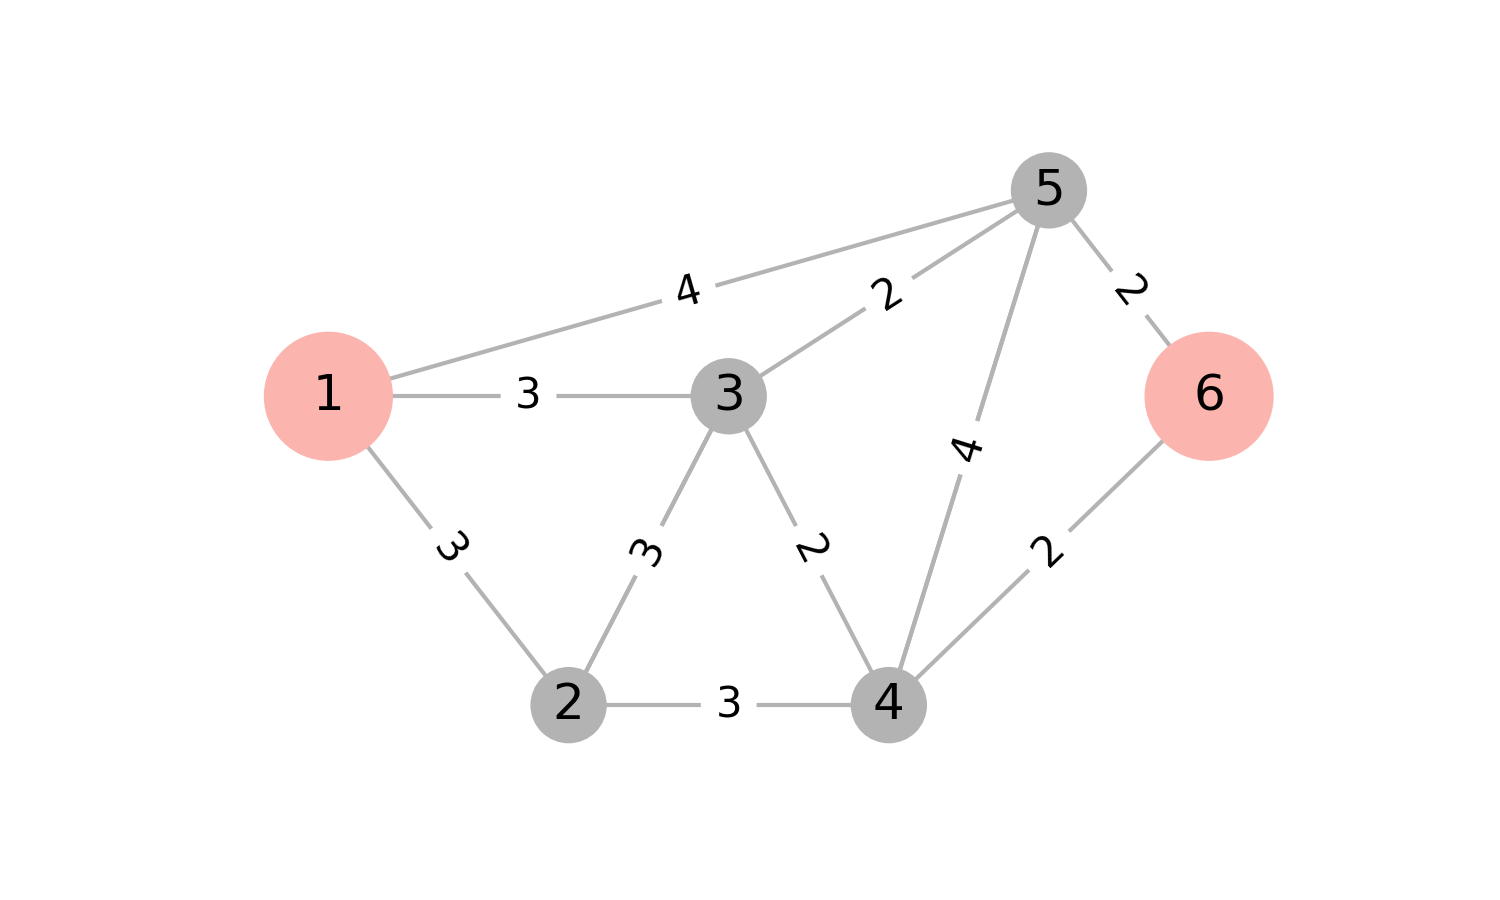
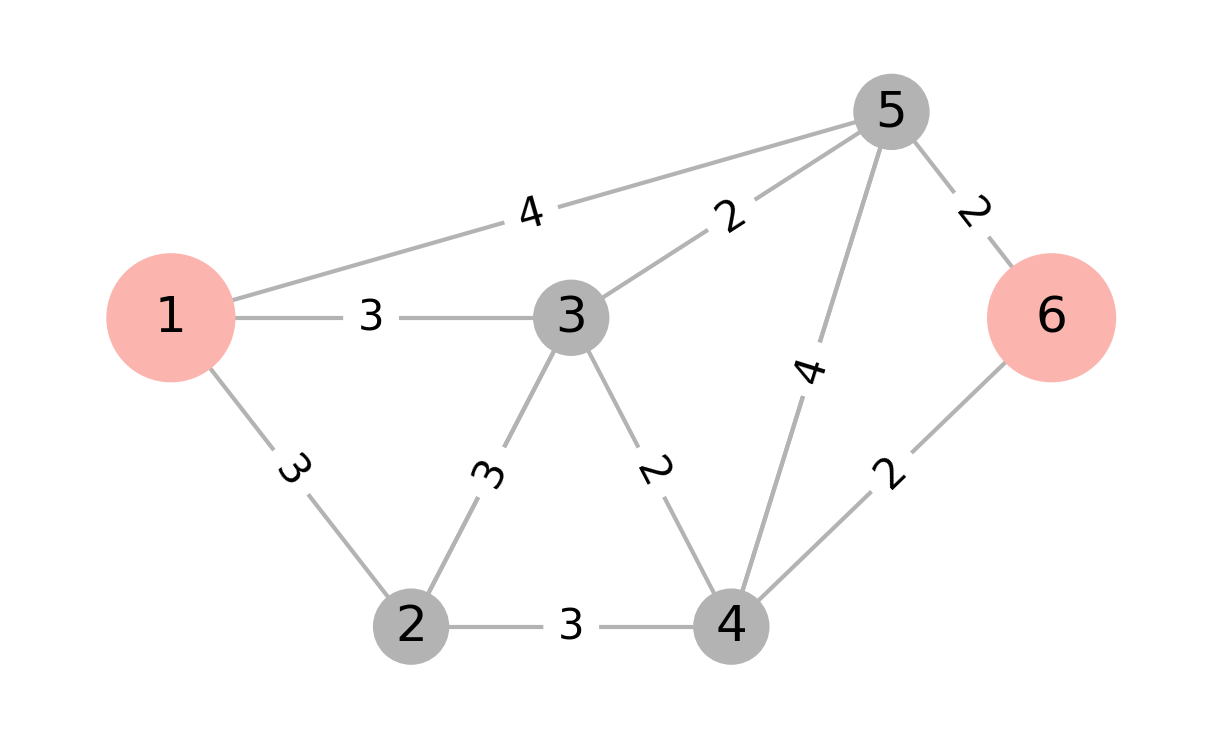
some fixes and notes

diff --git a/thesis/doc-udelar/capitulos/chap03_resolution.tex b/thesis/doc-udelar/capitulos/chap03_resolution.tex
@@ -65,9 +65,7 @@ Podemos encontrar en la literatura soluciones a problemas similares. En \textcit
 
 \subsection{Definición propuesta}
 
-Consideramos que una función $f_k$ arbitraria debe poder modelar una transición gradual de la demanda entre modos de transporte cuya curva puede comportarse de diferentes formas como analizamos en el Capítulo \ref{sect:problemresults}. Asumiendo que las funciones $f_k$ son decrecientes, el enfoque que seguimos es representar cada una como una sucesión decreciente de puntos de quiebre, tal que para cada punto exista un valor asociado de cantidad de demanda transferida. Su representación gráfica es una función escalonada donde cada escalón es constante, ver Figura \ref{fig:fdrawexample}. Podemos observar que en cada escalón la función no es estrictamente decreciente, por lo tanto el modelo puede no tener incentivos para mejorar algunos costos de caminos. Este problema lo retomaremos en el Capítulo \ref{sect:problemresults}.
-
-Al momento de evaluar una función representada de esta manera, los puntos de quiebre son comparados contra el valor del camino más corto $w_k$ seleccionando el mínimo punto de valor mayor a $w_k$. Entonces, sea $w_k$ fijo, la demanda transferida para el par origen-destino $k$ es:
+Consideramos que una función $f_k$ arbitraria debe poder modelar una transición gradual de la demanda entre modos de transporte cuya curva puede comportarse de diferentes formas como analizamos en el Capítulo \ref{sect:problemresults}. Asumiendo que las funciones $f_k$ son decrecientes, el enfoque que seguimos es representar cada una como una sucesión decreciente de puntos de quiebre, tal que para cada punto exista un valor asociado de cantidad de demanda transferida. Su representación gráfica es una función escalonada donde cada escalón es constante, ver Figura \ref{fig:fdrawexample}. Podemos observar que en cada escalón la función no es estrictamente decreciente, por lo tanto el modelo puede no tener incentivos para mejorar algunos costos de caminos. Este problema lo retomaremos en el Capítulo \ref{sect:problemresults}. Al momento de evaluar una función representada de esta manera, los puntos de quiebre son comparados contra el valor del camino más corto $w_k$ seleccionando el mínimo punto de valor mayor a $w_k$. Entonces, sea $w_k$ fijo, la demanda transferida para el par origen-destino $k$ es:
 
 \begin{equation}
   \label{eq:deffks}
@@ -152,7 +150,7 @@ Podemos utilizar las mismas justificaciones de las propiedades \ref{deffpt1} y \
 
 Los valores que pueden ser utilizados para los conjuntos $Q$ y $P$ son cualquier subconjunto discreto del dominio de la función de transferencia de demanda y su valor funcional, respectivamente. Dada una instancia del problema y un par origen destino $k$, llamamos $\underline{W}$ al costo del camino más corto suponiendo que las mejores tecnologías se pueden construir y $\overline{W}$ al costo del camino más corto sobre el grafo base (sin infraestructura de ciclovía especializada)\footnote{En realidad, $\overline{W}$ es el mínimo valor para el que $f_k$ es mínimo, podría ser cualquier número arbitrariamente grande.}. Entonces $Q_j \in [\underline{W}, \overline{W}],\; \forall j \in J$. Los valores de $Pj$ son la cantidad de demanda que se transfiere para cada $Q_j$, es decir $P = \{f_k(Q_j):\; j \in J\}$. El conjunto índice $J$ determina la precisión con que se representa la función $f_k$ y el orden en que define los puntos de quiebre es el siguiente: sea $J = \{1, 2, .. , J_{max}\}$, entonces $P_j < P_{j+1}$ y $Q_j > Q_{j+1}$, es decir, a mayor valor del índice $j$ mayor es el valor de demanda transferida y mejor es el camino para el usuario.
 
-Además, entendemos que tiene sentido que el dominio de $f_k$ sean valores de costos de usuario de camino más cortos que van desde aquel para el cual toda la demanda se transfiere hasta aquel para el cual no hay demanda transferida. Es decir, que el mínimo de $f_k$ sea 0 y que el máximo sea la demanda total del par $k$ ($d_k$), esto es $f_k(\overline{W}) = 0$ y $f_k(\underline{W}) = d_k$. Esto quiere decir que si no hay infraestructura de ciclovías o la infraestructura construida no afecta el costo del camino más corto entonces no debe haber transferencia de demanda. Por otro lado, si la mejor tecnología posible es construida de manera que el costo del camino más corto disminuya a $\underline{W}$ entonces toda la demanda se transfiere. Lo anterior es consistente con la hipótesis de que trabajamos exclusivamente con la demanda transferible a la bicicleta dejando afuera la que ya utiliza dicho medio de transporte, la que en ningún caso la utilizaría y la que requiere de costos de usuario demasiado bajos para lo que puede ofrecer la mejor tecnología de ciclovía. Por lo tanto, en la definición de una función $f_k, k \in OD$, tienen relevancia aspectos como el grafo base y el costo del camino más corto sobre él para el par origen-destino $k$ y las tecnologías de ciclovías que pueden ser construidas y cómo afectan al costo de usuario al ser activadas.
+Además, entendemos que tiene sentido que el dominio de $f_k$ sean valores de costos de usuario de camino más cortos que van desde aquel para el cual toda la demanda se transfiere hasta aquel para el cual no hay demanda transferida. Es decir, que el mínimo de $f_k$ sea 0 y que el máximo sea la demanda total del par $k$ ($d_k$), esto es $f_k(\overline{W}) = 0$ y $f_k(\underline{W}) = d_k$. Esto quiere decir que si no hay infraestructura de ciclovías o la infraestructura construida no afecta el costo del camino más corto entonces no debe haber transferencia de demanda. Por otro lado, si la mejor tecnología posible es construida de manera que el costo del camino más corto disminuya a $\underline{W}$ entonces toda la demanda se transfiere. Lo anterior es consistente con la hipótesis de que trabajamos exclusivamente con la demanda transferible a la bicicleta dejando afuera la que ya utiliza dicho medio de transporte, la que en ningún caso la utilizaría y la que requiere de costos de usuario demasiado bajos en comparación con lo que puede ofrecer la mejor tecnología de ciclovía. Por lo tanto, en la definición de una función $f_k, k \in OD$, tienen relevancia aspectos como el grafo base y el costo del camino más corto sobre él para el par origen-destino $k$ y las tecnologías de ciclovías que pueden ser construidas y cómo afectan al costo de usuario al ser activadas.
 
 Una forma posible de establecer los valores de $J$, $P_j$ y $Q_J$ es: dada una función $f_k$, tomando $N$ valores equidistantes entre $[\underline{W}, \overline{W}]$ obtendremos $Q_j$ y tomando el valor funcional de esos puntos obtendremos $P_j$, luego $J=\{1,..,N\}$.
 
@@ -319,14 +317,14 @@ Finalizamos este ejemplo comentando que ambas soluciones S y SM satisfacen las c
 
 \begin{figure}[h!]
   \centering
-  \includegraphics[width=12cm]{../resources/example_2_sol_v2.png}
+  \includegraphics[width=\linewidth]{../resources/example_2_sol_v2.png}
   \caption{Representación de la solución S. A la izquierda se resaltan los arcos donde se construye la tecnología 1. A la derecha se observa el camino más corto sobre la red resultante.}
   \label{fig:example2solv2}
 \end{figure}
 
 \begin{figure}[h!]
   \centering
-  \includegraphics[width=12cm]{../resources/example_2_sol_v1.png}
+  \includegraphics[width=\linewidth]{../resources/example_2_sol_v1.png}
   \caption{Solución SM. A la izquierda se resalta el arco donde se construye la tecnología 1 mientras que a la derecha se muestra el camino más corto, que coincide con el de la red base.}
   \label{fig:example2solv1}
 \end{figure}

diff --git a/thesis/doc-udelar/capitulos/chap01_intro.tex b/thesis/doc-udelar/capitulos/chap01_intro.tex
@@ -2,8 +2,6 @@
 
   Utilizar la bicicleta como medio de transporte brinda un amplio espectro de beneficios. Es una alternativa particularmente favorable para viajes cortos en comparación al uso de automóvil o transporte colectivo \parencite{Hull2014}. La sustitución del transporte motorizado por bicicleta es favorable para el descongestionamiento de calles y la consiguiente disminución en la contaminación sonora y del aire, problemas que son comunes en ciudades medianas y grandes. En Uruguay, una proporción significativa de la población padece enfermedades no transmisibles asociadas a la inactividad física como enfermedades cardiovasculares y obesidad; está demostrado que la práctica de ejercicio frecuente de moderada intensidad como el transporte en bicicleta, junto a otros cambios en el estilo de vida, previene el desarrollo de los factores de riesgo más prevalentes \parencite{heartrisksuy, mspphisicalactivityguid, mspsurveyriskfactors}. Sin embargo, a pesar de las ventajas citadas anteriormente, no siempre es posible utilizar este medio de transporte debido a factores como la distancia del viaje, condiciones climáticas adversas y falta de infraestructura adecuada, entre otros.
 
-  Si bien la bicicleta puede utilizar la red de calles o incluso sendas peatonales como medio de circulación, no siempre estas son elegibles por los ciclistas para su uso. Factores como la cantidad y velocidad del tránsito automotor y ancho de la banquina afectan considerablemente esta decisión. La necesidad de infraestructura específica para la bicicleta es ampliamente reconocida y un correcto diseño es clave para la aplicación eficiente de políticas públicas que busquen mejorar e incentivar la bicicleta como medio de transporte alternativo \parencite{Hunt2007}.
-
   Según la última encuesta de movilidad realizada para el área metropolitana de la ciudad de Montevideo \parencite{Mauttone2017a}, la utilización de la bicicleta abarca el 2,6\% del total de los viajes diarios. Se desprende de dicho estudio que que la bicicleta es el medio de transporte privado de distribución más equitativa, por su presencia en similares valores entre hogares de diferentes estratos socioeconómicos. En Latinoamérica, la utilización de la bicicleta no dista mucho del caso de Montevideo (ver Tabla \ref{table:bicycleusagelatinamerica}) y en general está lejos de los niveles que se pueden ver en otras partes del mundo. Podemos encontrar valores altos en el porcentaje de utilización de la bicicleta en algunas ciudades de Europa que cuentan con buenos niveles de servicio en ciclovías, por ejemplo Cambridge, Reino Unido, con 20\%; Amsterdam y Utrecht, Holanda con 37\% y 44\% respectivamente \parencite{Hull2014}; y Copenhague, Dinamarca con el 35\% \parencite{Vedel2017}. Por otro lado, algunas ciudades de China cuyo medio de transporte predominante ha sido la bicicleta, llegando a niveles superiores al 50\% a principios de este siglo, están viendo decrecer su utilización a razón de 1\% anual en promedio \parencite{Li2017}.
 
   \begin{table}[h!]
@@ -28,7 +26,7 @@
       \label{table:bicycleusagelatinamerica}
   \end{table}
 
-  La toma de decisiones que lleva a un buen diseño de una red de ciclovías es problema complejo influido por múltiples factores como las características topológicas de la ciudad, la demanda de viajes, el presupuesto disponible y el comportamiento de los usuarios. Desde la optimización podemos encontrar herramientas que ayudan y dan soporte a estas decisiones.
+  Si bien la bicicleta puede utilizar la red de calles o incluso sendas peatonales como medio de circulación, no siempre estas son elegibles por los ciclistas para su uso. Factores como la cantidad y velocidad del tránsito automotor y ancho de la banquina afectan considerablemente esta decisión. La necesidad de infraestructura específica para la bicicleta es ampliamente reconocida y un correcto diseño es clave para la aplicación eficiente de políticas públicas que busquen mejorar e incentivar la bicicleta como medio de transporte alternativo \parencite{Hunt2007}. En este sentido, la toma de decisiones que lleva a un buen diseño de una red de ciclovías un es problema complejo influido por múltiples factores como las características topológicas de la ciudad, la demanda de viajes, el presupuesto disponible y el comportamiento de los usuarios. Desde la optimización se pueden aportar herramientas que ayudan y dan soporte a estas decisiones.
 
   \section{Conceptos y estado del arte}
 

diff --git a/thesis/doc-udelar/capitulos/chap02_problem.tex b/thesis/doc-udelar/capitulos/chap02_problem.tex
@@ -73,7 +73,7 @@ $$
 
 \begin{figure}[h!]
   \centering
-  \includegraphics[width=10cm]{../resources/example_1_base.png}
+  \includegraphics[width=8cm]{../resources/example_1_base.png}
   \caption{Representación de la red utilizada para el ejemplo de aplicación de la formulación binivel. Los dos pares origen-destino se detallan con un color diferente. Cada arco tiene una etiqueta con el costo de usuario sobre la tecnología base, es decir, la red de calles.}
   \label{fig:example1base}
 \end{figure}
@@ -84,8 +84,8 @@ La solución óptima consiste en construir tecnología 1 en todos los arcos del 
 
 \begin{figure}[h!]
   \centering
-  \includegraphics[width=10cm]{../resources/example_1_infras.png}
-  \includegraphics[width=10cm]{../resources/example_1_flows.png}
+  \includegraphics[width=8cm]{../resources/example_1_infras.png}
+  \includegraphics[width=8cm]{../resources/example_1_flows.png}
   \caption{Representación de la solución óptima en el grafo. Arriba se muestra en naranja en cuáles arcos se construye la tecnología 1. Abajo, en azul, los flujos sobre los caminos más cortos para ambos pares origen-destino. Nótese que el ancho del arco en este caso da una noción de la cantidad flujo.}
   \label{fig:example1solution}
 \end{figure}
